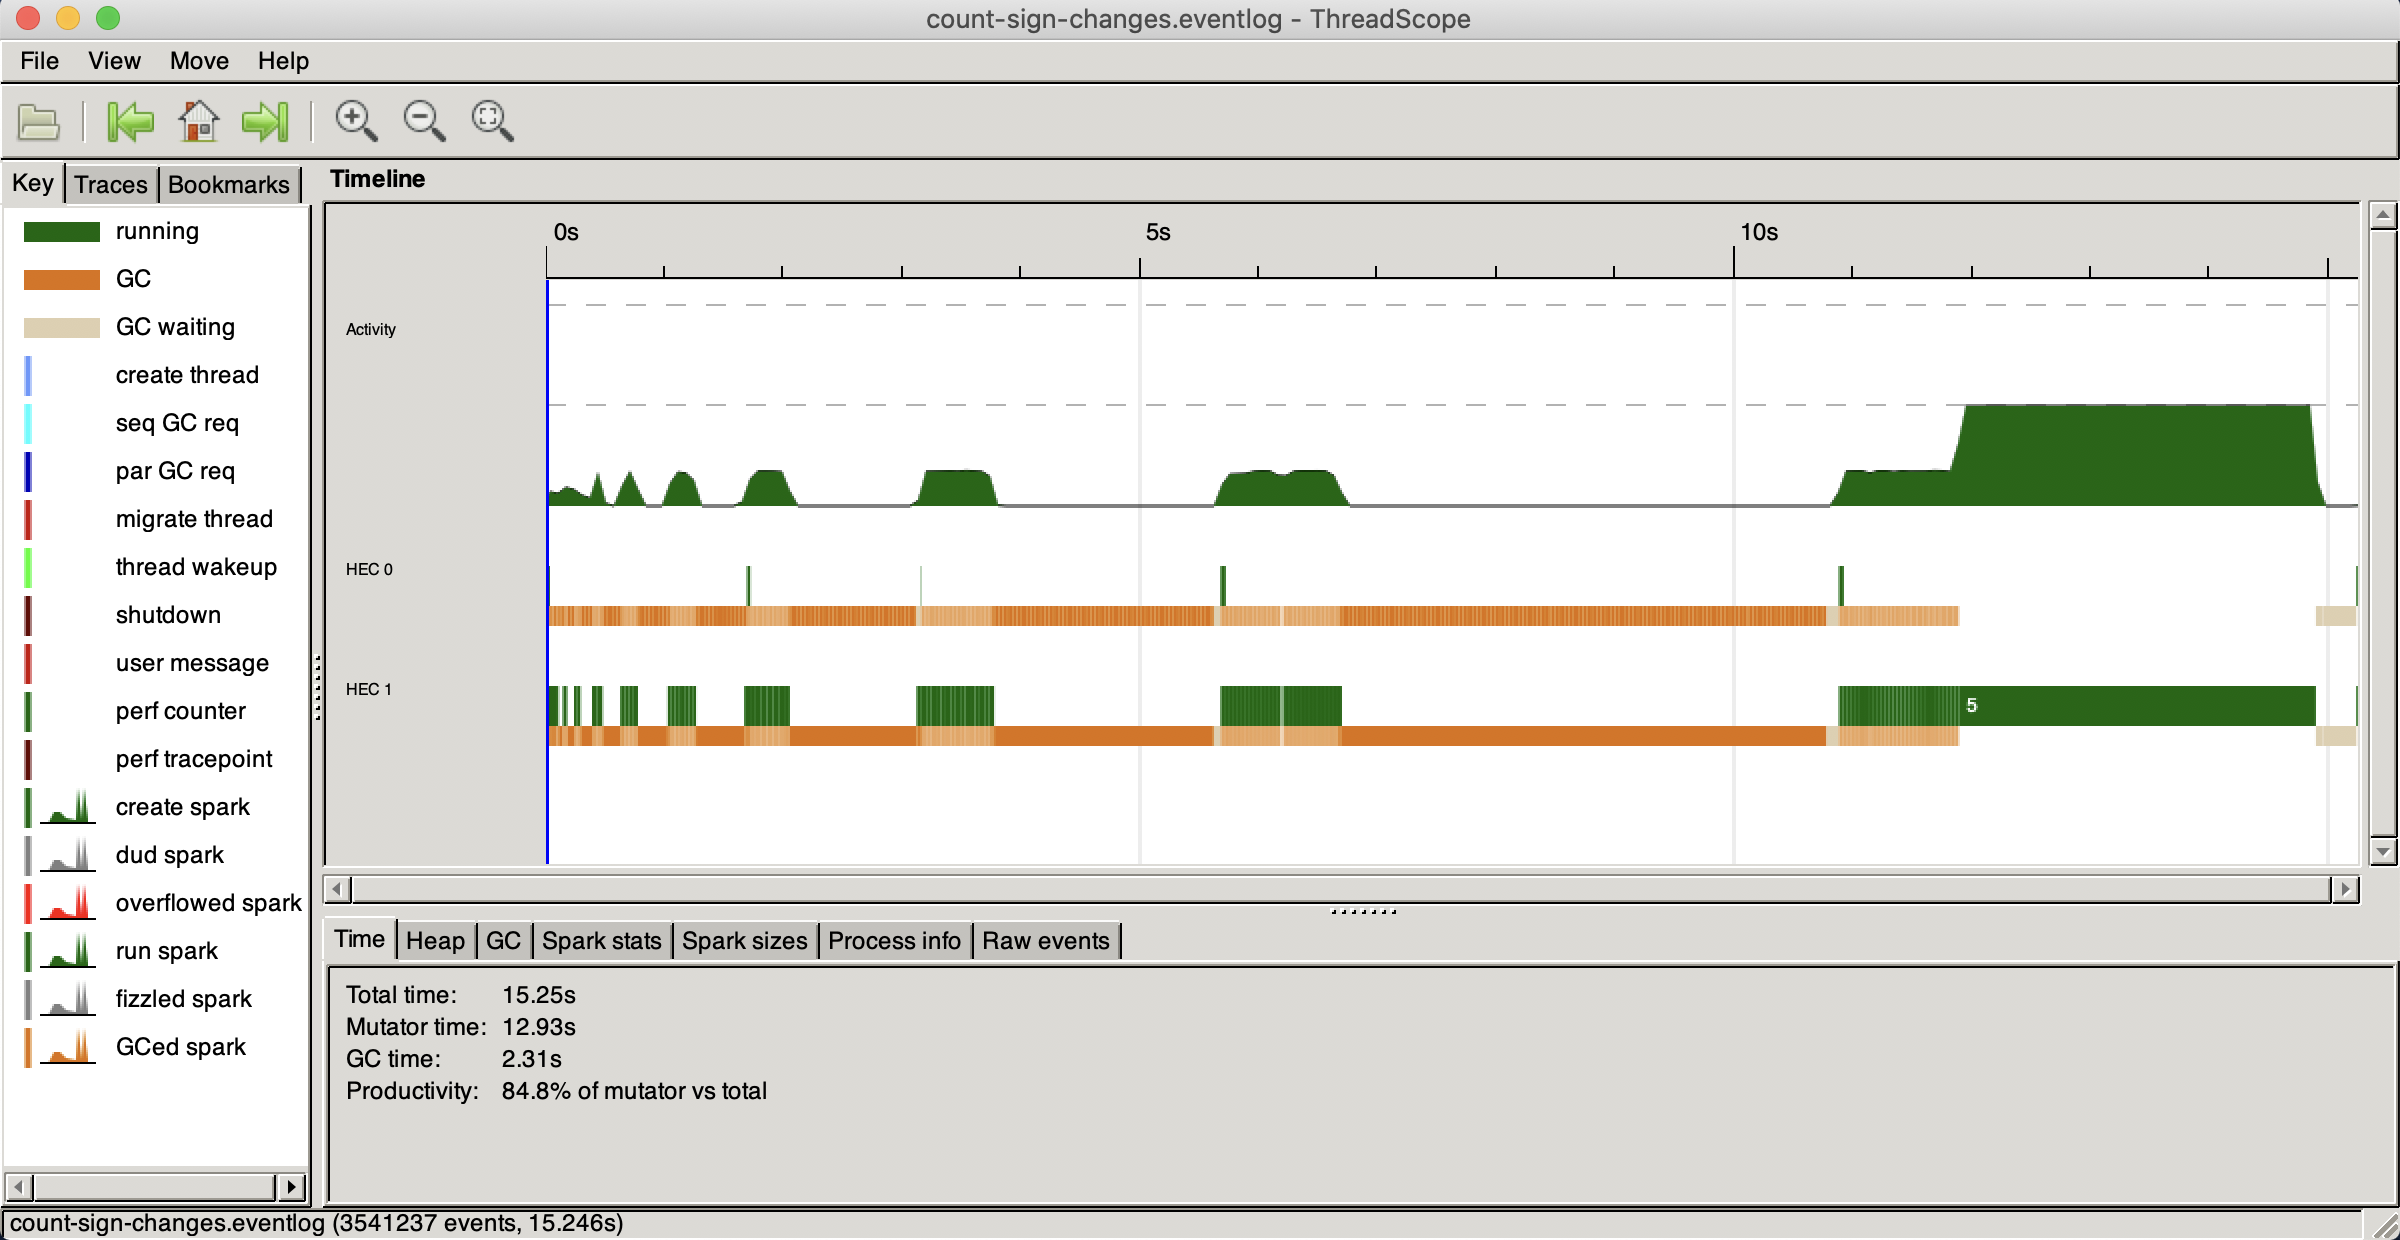
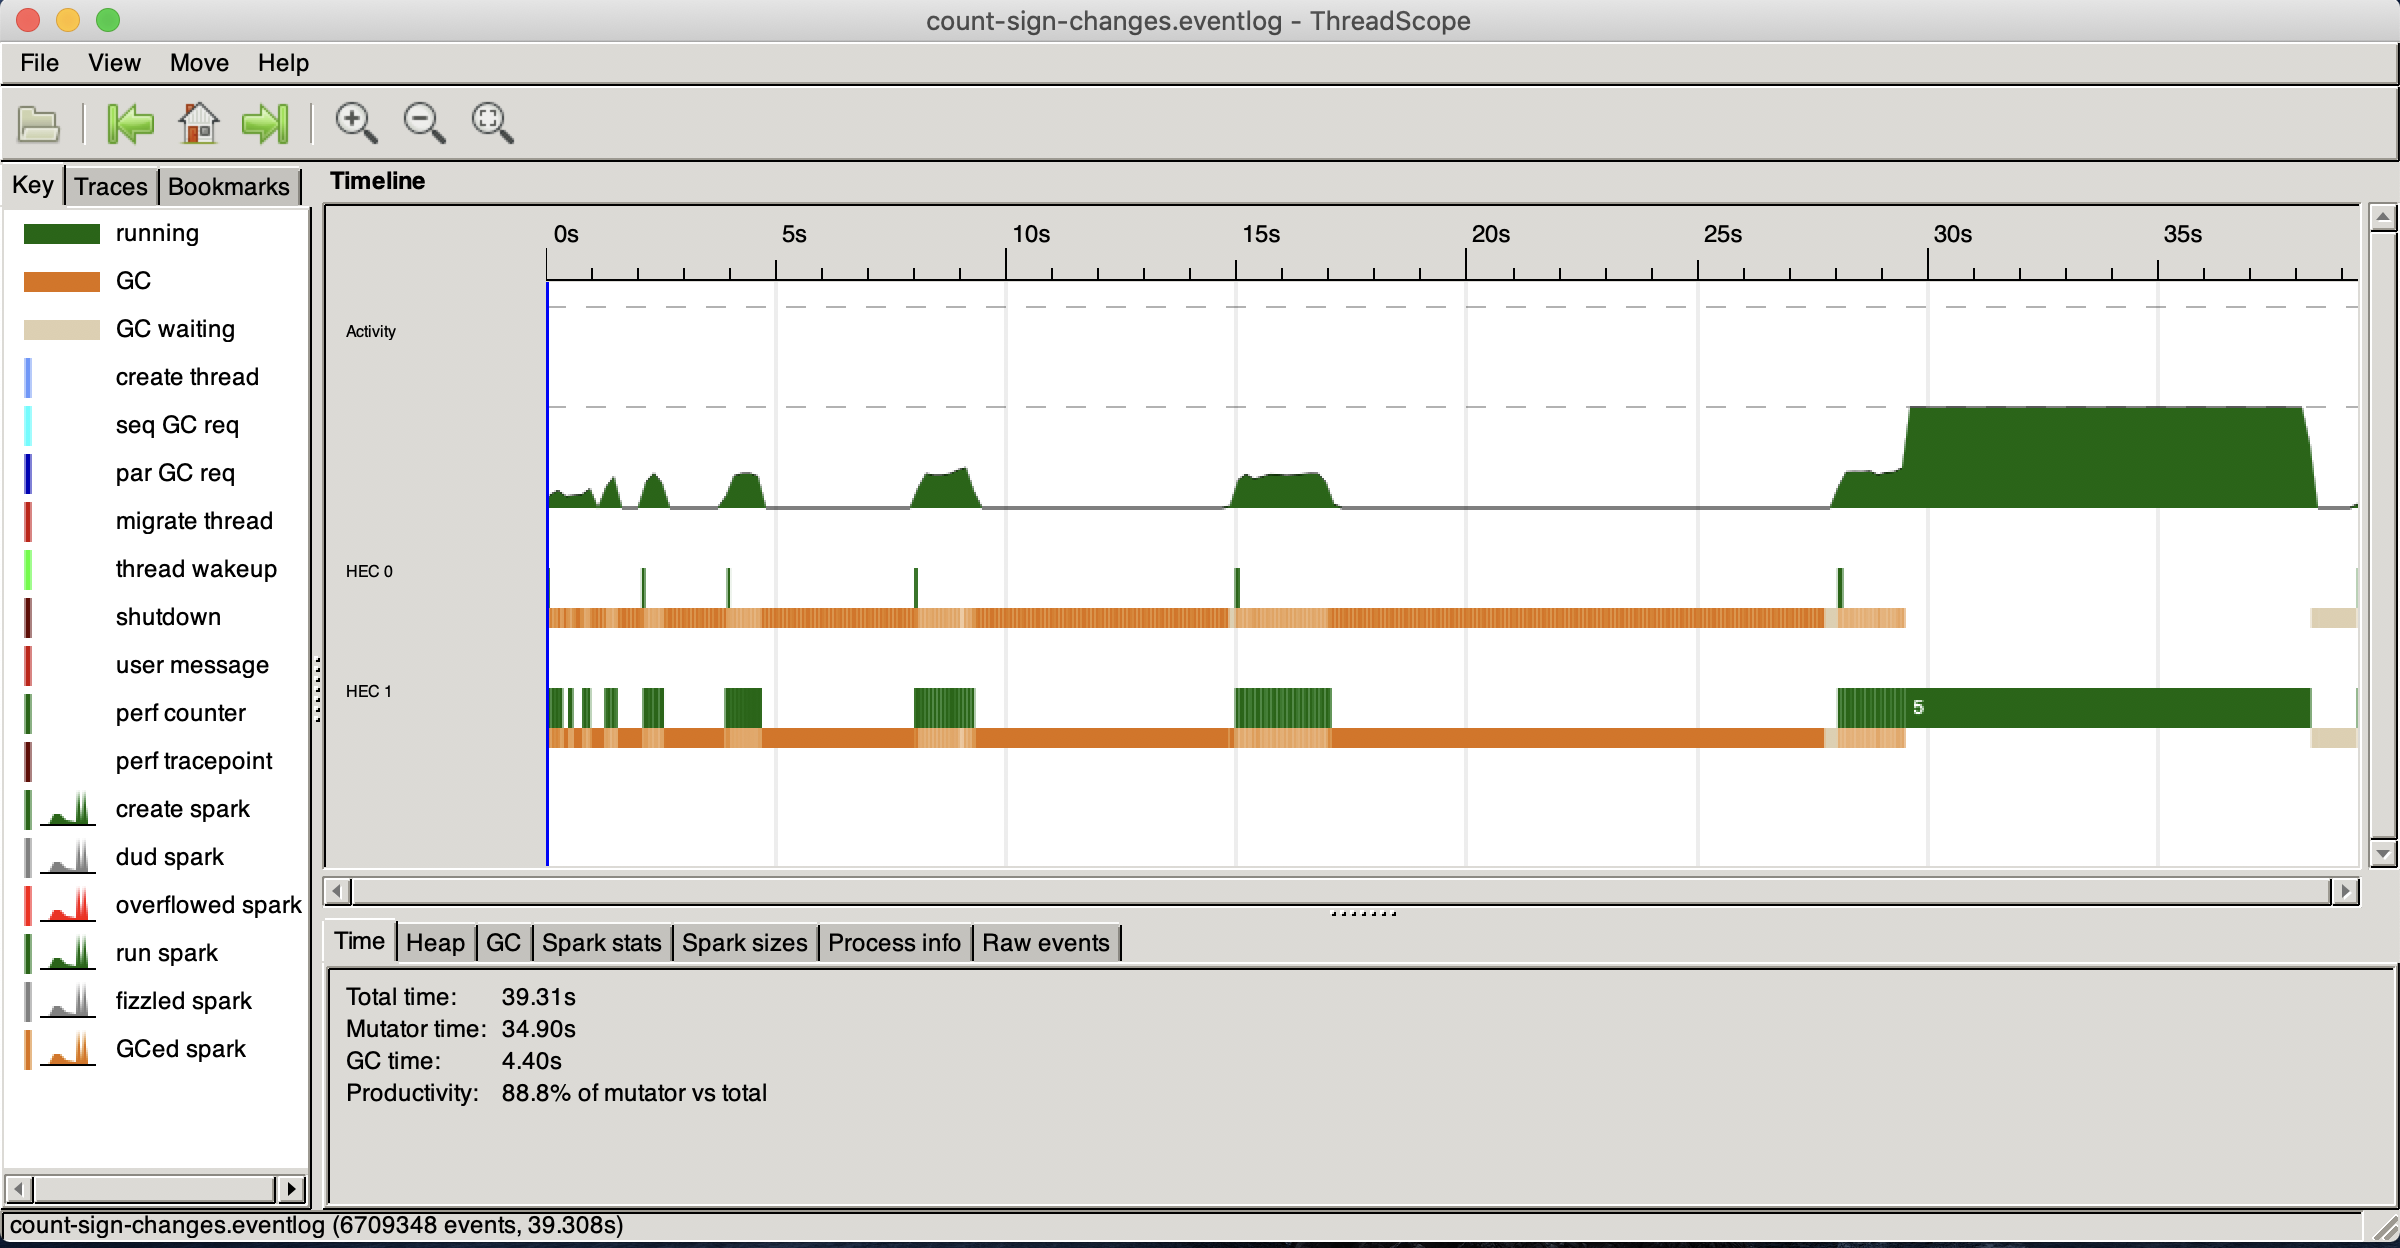
Update testList and add optimization options

diff --git a/README.md b/README.md
@@ -51,7 +51,7 @@ Algorithms process this list
 ```haskell
 -- An example list to test algorithms
 testList :: Integral a => [a]
-testList = [0, -1] ++ [-1..60000000] ++ [ -1, -7 ]
+testList = [0, -1] ++ [-1..100000000] ++ [ -1, -7 ]
 ```
 
 For this list the answer will be `3`, first change on -1, second on 0 and the last on -1
